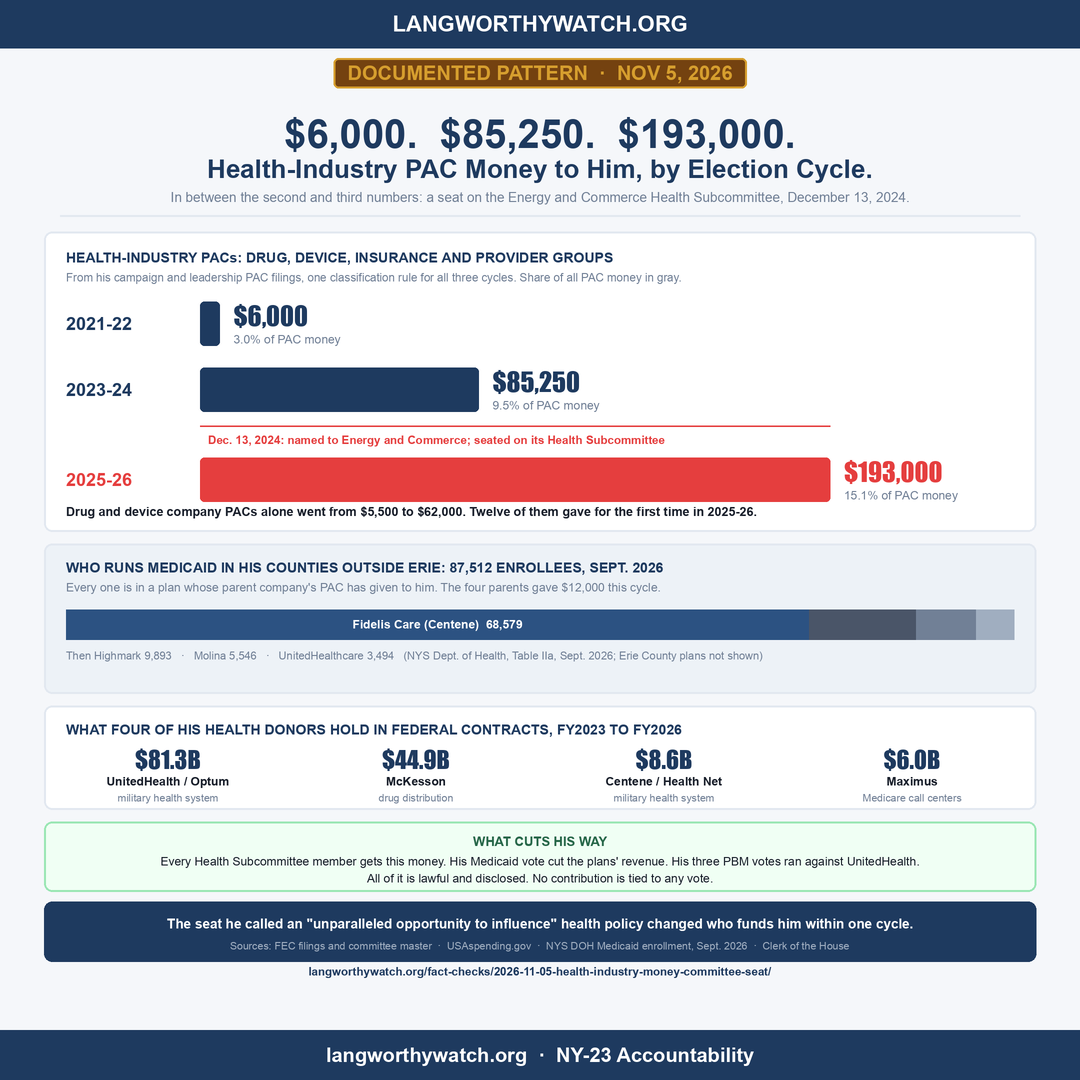
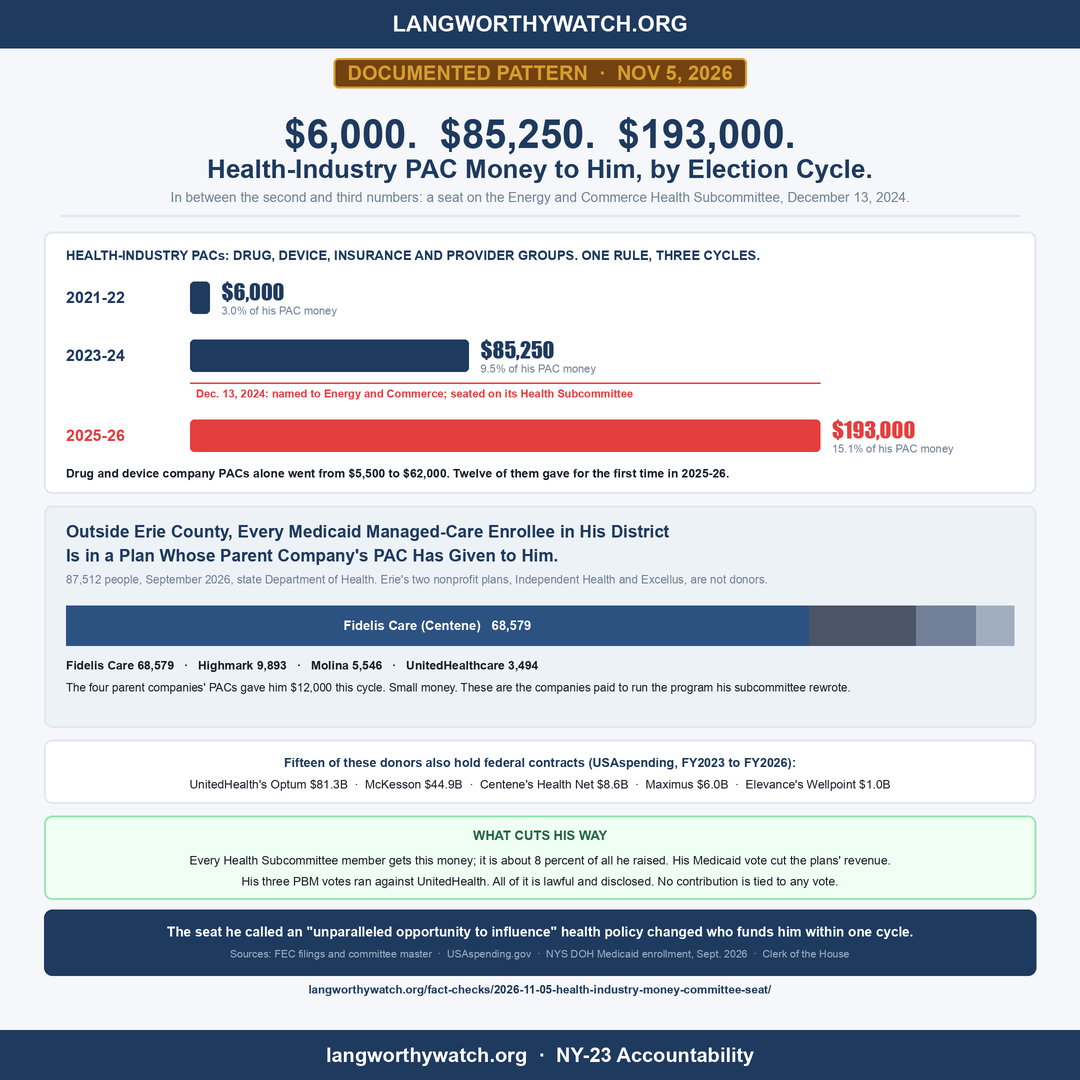
social: health-money card v2 and caption v2 (Medicaid finding promoted, contracts demoted, 8 percent added)

Changed region(s): [[0.0611, 0.2139, 0.9472, 0.6417], [0.0306, 0.6722, 0.9778, 0.9167]]

diff --git a/social-media/create_health_money_card.py b/social-media/create_health_money_card.py
@@ -14,71 +14,66 @@ y = c.title(y - 2, "Health-Industry PAC Money to Him, by Election Cycle.", size=
 y = c.subtitle(y + 4, "In between the second and third numbers: a seat on the Energy and Commerce Health Subcommittee, December 13, 2024.", size=13.5)
 y = c.divider(y + 10)
 
-# HERO: three bars with the appointment marker
-h_h = 300
+# HERO: three bars with the appointment marker (trimmed)
+h_h = 262
 c.panel(44, y, c.w - 44, y + h_h, fill=WHITE, outline=BORDER)
-c.text(66, y + 26, "HEALTH-INDUSTRY PACs: DRUG, DEVICE, INSURANCE AND PROVIDER GROUPS", size=14, bold=True, fill=NAVY, anchor="lm")
-c.text(66, y + 46, "From his campaign and leadership PAC filings, one classification rule for all three cycles. Share of all PAC money in gray.", size=11.5, fill=MUTED, anchor="lm")
+c.text(66, y + 24, "HEALTH-INDUSTRY PACs: DRUG, DEVICE, INSURANCE AND PROVIDER GROUPS. ONE RULE, THREE CYCLES.", size=13, bold=True, fill=NAVY, anchor="lm")
 rows = [("2021-22", 6000, "3.0%", NAVY), ("2023-24", 85250, "9.5%", NAVY), ("2025-26", 193000, "15.1%", RED)]
-x0 = 200; xmax = c.w - 250; unit = (xmax - x0) / 193000.0
-ry = y + 92
+x0 = 190; xmax = c.w - 260; unit = (xmax - x0) / 193000.0
+ry = y + 66
 for lab, v, sh, col in rows:
-    c.text(66, ry, lab, size=18, bold=True, fill=col, anchor="lm")
+    c.text(66, ry, lab, size=16, bold=True, fill=col, anchor="lm")
     w = max(v * unit, 6)
-    c.rect(x0, ry - 22, x0 + w, ry + 22, fill=col, outline=None, radius=4)
-    c.text(x0 + w + 14, ry - 8, f"${v:,.0f}", size=26, impact=True, fill=col, anchor="lm")
-    c.text(x0 + w + 14, ry + 16, f"{sh} of PAC money", size=12, fill=MUTED, anchor="lm")
+    c.rect(x0, ry - 16, x0 + w, ry + 16, fill=col, outline=None, radius=4)
+    c.text(x0 + w + 12, ry - 6, f"${v:,.0f}", size=22, impact=True, fill=col, anchor="lm")
+    c.text(x0 + w + 12, ry + 13, f"{sh} of his PAC money", size=11, fill=MUTED, anchor="lm")
     if lab == "2023-24":
-        my = ry + 36
+        my = ry + 27
         c.rect(x0, my, xmax, my + 1, fill=RED, outline=None)
-        c.text(x0 + 8, my + 10, "Dec. 13, 2024: named to Energy and Commerce; seated on its Health Subcommittee", size=11.5, bold=True, fill=RED, anchor="lt")
-        ry += 24
-    ry += 66
-c.text(66, y + h_h - 20, "Drug and device company PACs alone went from $5,500 to $62,000. Twelve of them gave for the first time in 2025-26.", size=12.5, bold=True, fill=DARK, anchor="lm")
+        c.text(x0 + 6, my + 7, "Dec. 13, 2024: named to Energy and Commerce; seated on its Health Subcommittee", size=11, bold=True, fill=RED, anchor="lt")
+        ry += 22
+    ry += 58
+c.text(66, y + h_h - 20, "Drug and device company PACs alone went from $5,500 to $62,000. Twelve of them gave for the first time in 2025-26.", size=12, bold=True, fill=DARK, anchor="lm")
 y += h_h + 12
 
-# MEDICAID PLANS strip: 100% stacked bar outside Erie
-m_h = 150
+# MEDICAID: the finding is the heading
+m_h = 222
 c.panel(44, y, c.w - 44, y + m_h, fill="#EDF2F7", outline=BORDER)
-c.text(66, y + 24, "WHO RUNS MEDICAID IN HIS COUNTIES OUTSIDE ERIE: 87,512 ENROLLEES, SEPT. 2026", size=14, bold=True, fill=NAVY, anchor="lm")
-c.text(66, y + 44, "Every one is in a plan whose parent company's PAC has given to him. The four parents gave $12,000 this cycle.", size=12, fill=MUTED, anchor="lm")
+c.text(66, y + 26, "Outside Erie County, Every Medicaid Managed-Care Enrollee in His District", size=17, bold=True, fill=NAVY, anchor="lm")
+c.text(66, y + 50, "Is in a Plan Whose Parent Company's PAC Has Given to Him.", size=17, bold=True, fill=NAVY, anchor="lm")
+c.text(66, y + 74, "87,512 people, September 2026, state Department of Health. Erie's two nonprofit plans, Independent Health and Excellus, are not donors.", size=11.5, fill=MUTED, anchor="lm")
 segs = [("Fidelis Care (Centene)", 68579, "#2C5282"), ("Highmark", 9893, "#4A5568"), ("Molina", 5546, "#718096"), ("UnitedHealthcare", 3494, "#A0AEC0")]
 bx0, bx1 = 66, c.w - 66; bw = bx1 - bx0; tot = sum(s[1] for s in segs)
-x = bx0; by = y + 66
+x = bx0; by = y + 100
 for lab, v, col in segs:
     w = bw * v / tot
-    c.rect(x, by, x + w, by + 30, fill=col, outline=None)
-    if w > 120: c.text(x + w / 2, by + 15, f"{lab}  {v:,}", size=12, bold=True, fill=WHITE, anchor="mm")
+    c.rect(x, by, x + w, by + 40, fill=col, outline=None)
+    if w > 160: c.text(x + w / 2, by + 20, f"{lab}   {v:,}", size=13, bold=True, fill=WHITE, anchor="mm")
     x += w
-c.text(bx0, by + 46, "Then Highmark 9,893   ·   Molina 5,546   ·   UnitedHealthcare 3,494   (NYS Dept. of Health, Table IIa, Sept. 2026; Erie County plans not shown)", size=11, fill=MUTED, anchor="lm")
+c.text(bx0, by + 60, "Fidelis Care 68,579   ·   Highmark 9,893   ·   Molina 5,546   ·   UnitedHealthcare 3,494", size=12, bold=True, fill=DARK, anchor="lm")
+c.text(bx0, by + 82, "The four parent companies' PACs gave him $12,000 this cycle. Small money. These are the companies paid to run the program his subcommittee rewrote.", size=11.5, fill=DARK, anchor="lm")
 y += m_h + 12
 
-# CONTRACTS strip
-k_h = 104
+# CONTRACTS: one slim line
+k_h = 64
 c.panel(44, y, c.w - 44, y + k_h, fill=WHITE, outline=BORDER)
-c.text(66, y + 24, "WHAT FOUR OF HIS HEALTH DONORS HOLD IN FEDERAL CONTRACTS, FY2023 TO FY2026", size=14, bold=True, fill=NAVY, anchor="lm")
-cols = [("UnitedHealth / Optum", "$81.3B", "military health system"), ("McKesson", "$44.9B", "drug distribution"), ("Centene / Health Net", "$8.6B", "military health system"), ("Maximus", "$6.0B", "Medicare call centers")]
-cw = (c.w - 88) / 4
-for i, (n, a, d) in enumerate(cols):
-    cx = 44 + cw * i + cw / 2
-    c.text(cx, y + 54, a, size=24, impact=True, fill=NAVY, anchor="mm")
-    c.text(cx, y + 76, n, size=12, bold=True, fill=DARK, anchor="mm")
-    c.text(cx, y + 92, d, size=10.5, fill=MUTED, anchor="mm")
+c.text(c.w / 2, y + 23, "Fifteen of these donors also hold federal contracts (USAspending, FY2023 to FY2026):", size=12.5, bold=True, fill=NAVY, anchor="mm")
+c.text(c.w / 2, y + 45, "UnitedHealth's Optum $81.3B  ·  McKesson $44.9B  ·  Centene's Health Net $8.6B  ·  Maximus $6.0B  ·  Elevance's Wellpoint $1.0B", size=12, fill=DARK, anchor="mm")
 y += k_h + 12
 
 # fair case
-f_h = 70
+f_h = 84
 c.panel(44, y, c.w - 44, y + f_h, fill="#F0FFF4", outline="#9AE6B4")
 c.text(c.w / 2, y + 20, "WHAT CUTS HIS WAY", size=13, bold=True, fill=GREEN, anchor="mm")
-c.text(c.w / 2, y + 40, "Every Health Subcommittee member gets this money. His Medicaid vote cut the plans' revenue. His three PBM votes ran against UnitedHealth.", size=12, fill=DARK, anchor="mm")
-c.text(c.w / 2, y + 57, "All of it is lawful and disclosed. No contribution is tied to any vote.", size=12, fill=DARK, anchor="mm")
+c.text(c.w / 2, y + 45, "Every Health Subcommittee member gets this money; it is about 8 percent of all he raised. His Medicaid vote cut the plans' revenue.", size=12, fill=DARK, anchor="mm")
+c.text(c.w / 2, y + 66, "His three PBM votes ran against UnitedHealth. All of it is lawful and disclosed. No contribution is tied to any vote.", size=12, fill=DARK, anchor="mm")
 y += f_h + 10
 
-kk_h = 60
+kk_h = 66
 c.panel(44, y, c.w - 44, y + kk_h, fill=NAVY, outline=None)
 c.text(c.w / 2, y + 22, "The seat he called an \"unparalleled opportunity to influence\" health policy changed who funds him within one cycle.", size=13.5, bold=True, fill=WHITE, anchor="mm")
 c.text(c.w / 2, y + 44, "Sources: FEC filings and committee master  ·  USAspending.gov  ·  NYS DOH Medicaid enrollment, Sept. 2026  ·  Clerk of the House", size=10.5, fill=LIGHTGRAY, anchor="mm")
-y += kk_h + 10
+y += kk_h + 14
 c.text(c.w / 2, y, "langworthywatch.org/fact-checks/2026-11-05-health-industry-money-committee-seat/", size=11.5, bold=True, fill=NAVY, anchor="mm")
 assert y < 1080 - 50 - 6, y
 c.footer_bar()

diff --git a/social-media/health_money_post.md b/social-media/health_money_post.md
@@ -1,4 +1,4 @@
-# DRAFT Nov 5, 2026 (entry 2026-11-05-health-industry-money-committee-seat, DOCUMENTED PATTERN)
+# DRAFT Nov 5, 2026 v2 (card rebuilt Nov 9: Medicaid finding promoted, contracts demoted; caption contracts bullet cut, 8 percent added) (entry 2026-11-05-health-industry-money-committee-seat, DOCUMENTED PATTERN)
 # Card: health_money_card.png (create_health_money_card.py)
 
 Health-industry PAC money to him: $6,000 in his first race, $85,250 in his second, $193,000 in this one. What changed in between was a seat on the committee that writes Medicaid and drug law.
@@ -8,10 +8,10 @@ VERDICT: DOCUMENTED PATTERN
 → December 13, 2024: he is named to the Energy and Commerce Committee and its Health Subcommittee. He called it an "unparalleled opportunity to influence" health policy.
 → The cycle before, health-industry PACs were 9.5 cents of every PAC dollar he raised. This cycle, 15.1 cents. Drug and device company PACs went from $5,500 to $62,000. Twelve of them gave for the first time.
 → Outside Erie County, every one of the 87,512 people in Medicaid managed care in his district is in a plan whose parent company's PAC has given to him: Fidelis Care (Centene), Highmark, Molina, UnitedHealthcare. The four parents gave $12,000 this cycle. Small money. Not a small relationship.
-→ Fifteen of his health donors hold federal contracts. UnitedHealth's Optum, $81.3 billion over four years, mostly the military health system. McKesson, $44.9 billion. Centene's Health Net, $8.6 billion. Maximus, which runs Medicare's call centers, $6.0 billion.
+→ Fifteen of his health donors also hold federal contracts, led by UnitedHealth's Optum at $81.3 billion over four years, McKesson at $44.9 billion and Centene's Health Net at $8.6 billion.
 → He also sits on the Oversight Committee, whose jurisdiction includes "Federal procurement." He has no subcommittee seat there and missed 69 of its 145 recorded votes.
 
-What cuts his way, and it is a lot: every Health Subcommittee member, in both parties, gets this money. His Medicaid vote reduced these plans' revenue. He voted for pharmacy benefit manager reform three times, against UnitedHealth's interest. All of it is lawful and disclosed. Nothing here ties a contribution to a vote.
+What cuts his way, and it is a lot: every Health Subcommittee member, in both parties, gets this money, and it is about 8 percent of everything he raised. His Medicaid vote reduced these plans' revenue. He voted for pharmacy benefit manager reform three times, against UnitedHealth's interest. All of it is lawful and disclosed. Nothing here ties a contribution to a vote.
 
 What the record shows is simpler: the seat changed who funds him within one cycle, and the new funders include the companies paid to run Medicaid in every one of his counties and some of the largest health contractors in the federal government.
 
